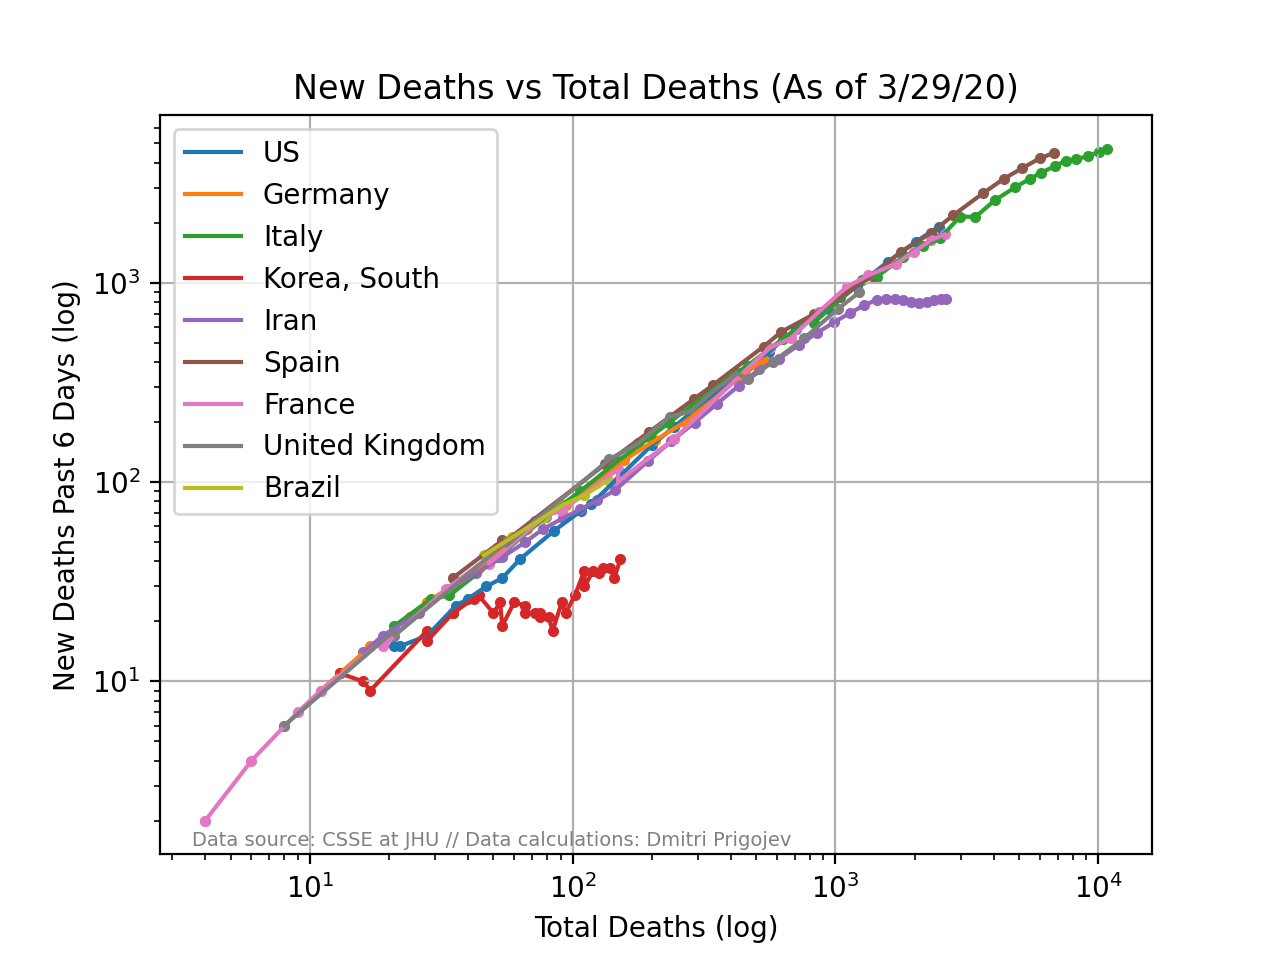
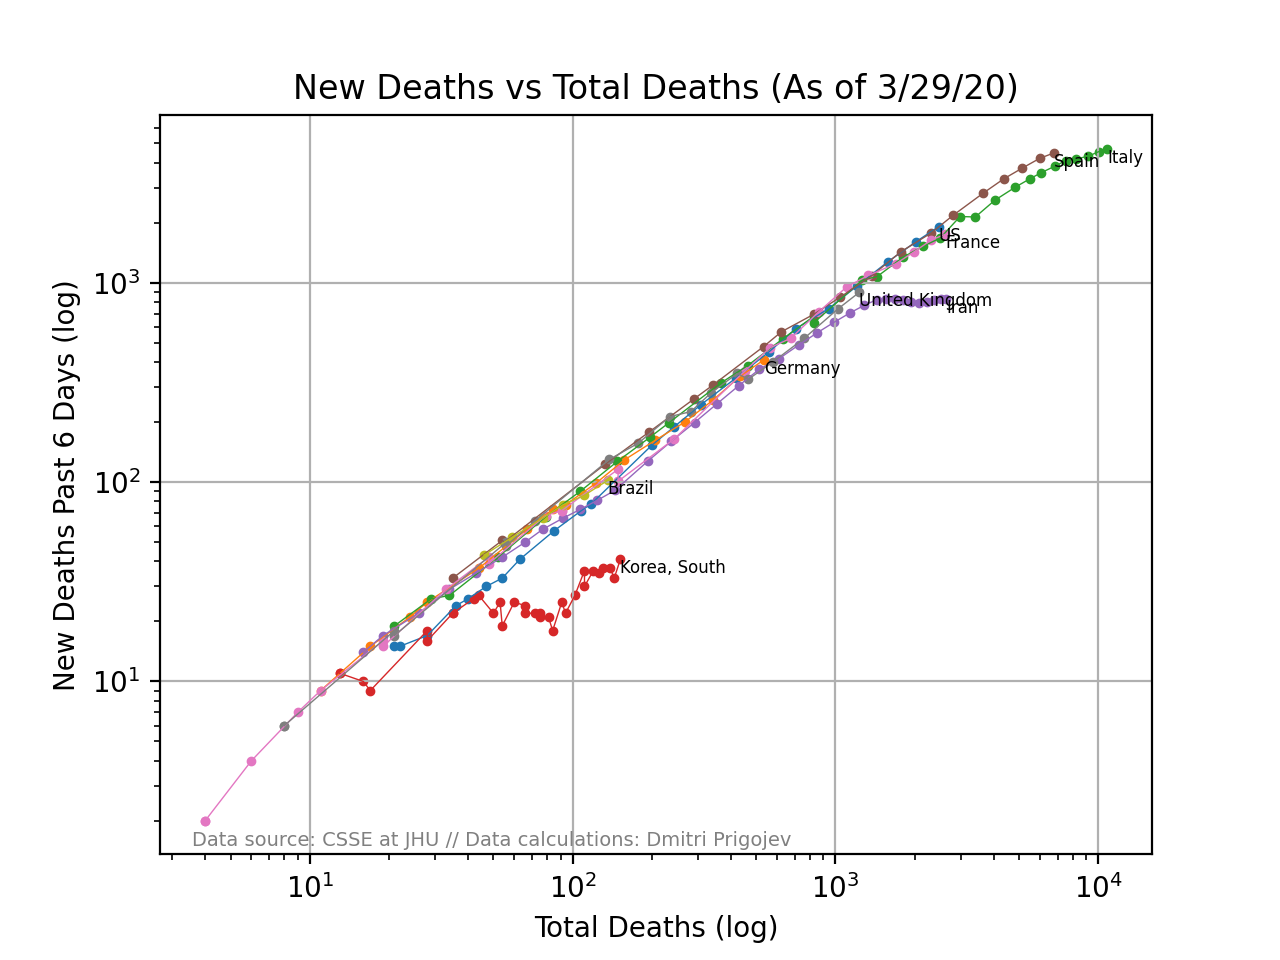
Change labels on graphs

diff --git a/compare_countries_confirmed_new_vs_total.py b/compare_countries_confirmed_new_vs_total.py
@@ -5,7 +5,7 @@ from pandas.plotting import register_matplotlib_converters
 register_matplotlib_converters()
 
 countries = ['US', 'Germany', 'Italy', 'Korea, South', 'Iran', 'Spain', 'France', 'United Kingdom', 'Brazil']
-#countries = ['US', 'Germany', 'Spain', 'France', 'United Kingdom', 'Brazil', 'Russia']
+#countries = ['US', 'Italy', 'Spain', 'China', 'Brazil', 'Russia', 'Israel']
 
 raw_data = pd.read_csv('data/raw_data_confirmed_latest.csv')
 cols = list(raw_data)
@@ -36,9 +36,10 @@ for c in countries:
     for i in range(6,len(df)):
         df.iloc[i, 1] = df.loc[i][0] - df.loc[i-6][0]
     countries_collection[c] = df.reset_index(drop=True)
-    plt.scatter(df[c], df[c + '_new'], marker='.')
-    plt.plot(df[c], df[c + '_new'])
-plt.legend(countries)
+    plt.scatter(df[c], df[c + '_new'], marker='.', linewidths=0.5)
+    plt.plot(df[c], df[c + '_new'], linewidth=0.5)
+    plt.text(df[c].iloc[-1], df[c + '_new'].iloc[-1], c, fontsize=6, horizontalalignment='left', verticalalignment='top')
+#plt.legend(countries)
 plt.xlabel('Total Cases (log)')
 plt.ylabel('New Cases Past 6 Days (log)')
 plt.title('New Cases vs Total Confirmed Cases (As of '+as_of_date+')')

diff --git a/compare_countries_deaths_new_vs_total.py b/compare_countries_deaths_new_vs_total.py
@@ -34,9 +34,10 @@ for c in countries:
     for i in range(6,len(df)):
         df.iloc[i, 1] = df.loc[i][0] - df.loc[i-6][0]
     countries_collection[c] = df.reset_index(drop=True)
-    plt.scatter(df[c], df[c + '_new'], marker='.')
-    plt.plot(df[c], df[c + '_new'])
-plt.legend(countries)
+    plt.scatter(df[c], df[c + '_new'], marker='.', linewidths=0.5)
+    plt.plot(df[c], df[c + '_new'], linewidth=0.5)
+    plt.text(df[c].iloc[-1], df[c + '_new'].iloc[-1], c, fontsize=6, horizontalalignment='left', verticalalignment='top')
+#plt.legend(countries)
 plt.xlabel('Total Deaths (log)')
 plt.ylabel('New Deaths Past 6 Days (log)')
 plt.title('New Deaths vs Total Deaths (As of '+as_of_date+')')
